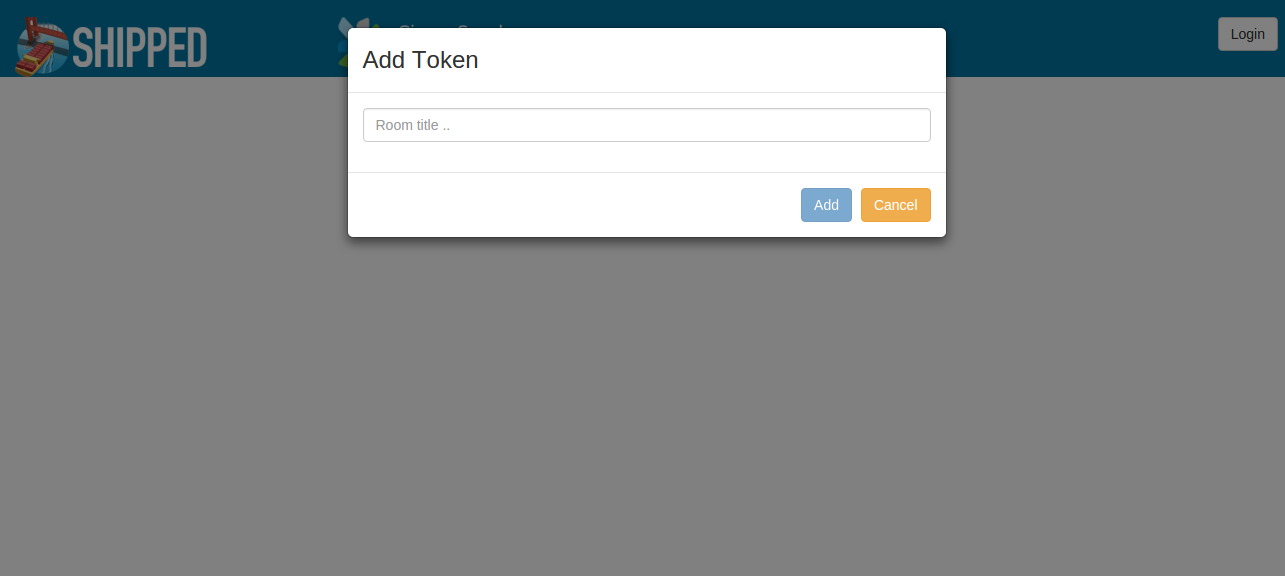
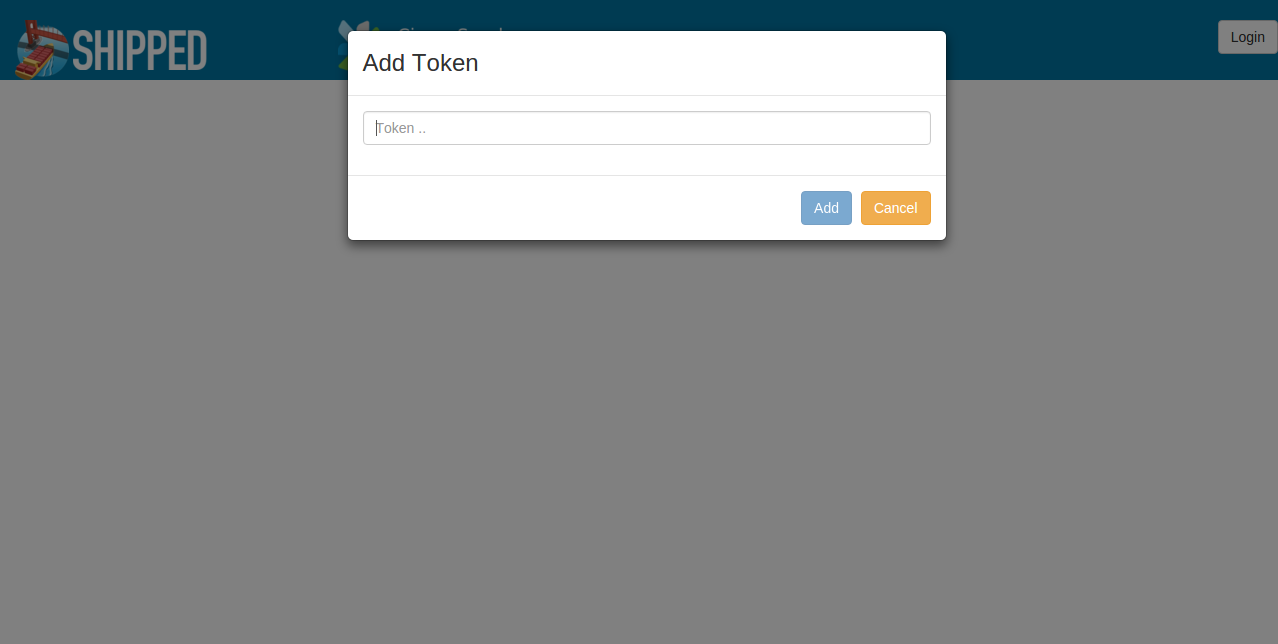
Typo fix

Changed region(s): [[0.2441, 0.0625, 1.0, 0.4375], [0.0, 0.0312, 0.3967, 0.1562], [0.946, 0.0312, 1.0, 0.0938]]

diff --git a/client/app/partials/tokenTmpl.html b/client/app/partials/tokenTmpl.html
@@ -5,7 +5,7 @@
   <form ng-submit="addToken(token)" novalidate="" name="newTokenForm">
 
     <div class="form-group" ng-class="{ 'has-error': newTokenForm.token.$touched &&  newTokenForm.token.$invalid }">
-      <input class="form-control" name="token" placeholder="Room title .."
+      <input class="form-control" name="token" placeholder="Token .."
                 ng-model="token" required type="text">
 
       <div class="help-block" ng-if="newTokenForm.token.$touched"
